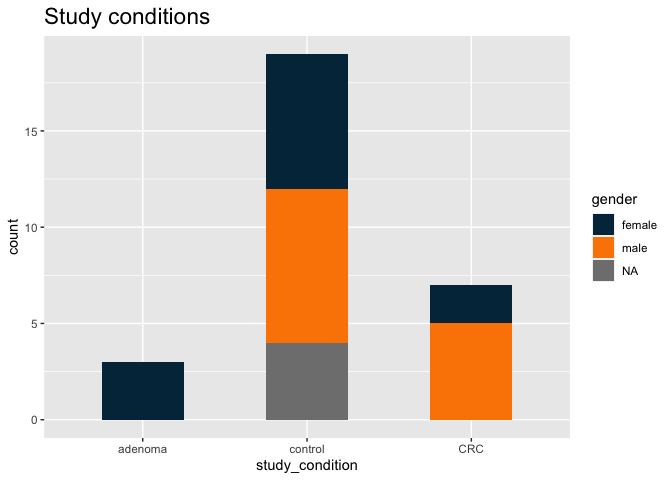
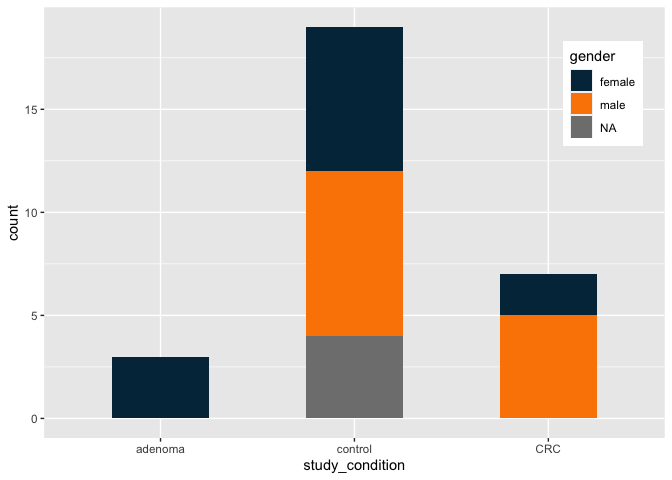
updated

diff --git a/Rscript/CMG_Rscript.md b/Rscript/CMG_Rscript.md
@@ -37,44 +37,48 @@ bin_data <- read.table("CMG_Rscript_data/SGB14797_bin_data.tsv", header=1, sep =
 # STUDY CONDITIONS
 
 conditions <- cbind(metadata[c(5,6)])
-conditions["other_disease"] <- "YES"
-conditions$other_disease[which(is.na(conditions$disease))] <- NA
-conditions$other_disease[which(conditions$disease=="healthy")] <- "NO"
+conditions["other_diseases"] <- 0
+conditions$other_diseases[which(is.na(conditions$disease))] <- NA
+conditions$other_diseases[which(conditions$disease!="healthy")] <- sapply(strsplit(conditions$disease[which(conditions$disease!="healthy")],
+                                                                                  split = ";"), length)
+conditions$other_diseases[which(conditions$study_condition!="control")] <- conditions$other_diseases[which(conditions$study_condition!="control")]-1
+conditions$other_diseases <- as.factor(conditions$other_diseases)
+
 
 # health
-ggplot(data=conditions, aes(x=study_condition, fill=other_disease)) +
+ggplot(data=conditions, aes(x=study_condition, fill=other_diseases)) +
   geom_bar(stat = "count", width=0.5) +
-  ggtitle("Study conditions")+
-  theme(plot.title = element_text(size = 17)) +
-  scale_fill_manual(values = mycolors[c(3,5)])
+  theme(plot.title = element_text(size = 17),
+        legend.position = c(0.9, 0.7)) +
+  scale_fill_manual(values = mycolors[c(1,2,3,5)])
 
 # age
 ggplot(data=metadata, aes(x=study_condition, fill=age_category)) +
   geom_bar(stat = "count", width=0.5) +
-  ggtitle("Study conditions")+
-  theme(plot.title = element_text(size = 17)) +
+  theme(plot.title = element_text(size = 17),
+        legend.position = c(0.9, 0.8)) +
   scale_fill_manual(values = mycolors[c(3,5)])
 
 # gender
 ggplot(data=metadata, aes(x=study_condition, fill=gender)) +
   geom_bar(stat = "count", width=0.5) +
-  ggtitle("Study conditions")+
-  theme(plot.title = element_text(size = 17)) +
+  theme(plot.title = element_text(size = 17),
+        legend.position = c(0.9, 0.8)) +
   scale_fill_manual(values = mycolors[c(3,5)])
 
 # country
 ggplot(data=metadata, aes(x=study_condition, fill=country)) +
   geom_bar(stat = "count", width=0.5) +
-  ggtitle("Study conditions")+
-  theme(plot.title = element_text(size = 17)) +
+  theme(plot.title = element_text(size = 17),
+        legend.position = c(0.95, 0.7)) +
   scale_fill_manual(values = c("#270240", "#023047", "#219ebc", "#8ecae6", 
                                "#ffb703", "#fb8500", "#fa5316", "#fa352a"))
 
 # westernized
 ggplot(data=metadata, aes(x=study_condition, fill=non_westernized)) +
   geom_bar(stat = "count", width=0.5) +
-  ggtitle("Study conditions")+
-  theme(plot.title = element_text(size = 17)) +
+  theme(plot.title = element_text(size = 17),
+        legend.position = c(0.9, 0.8)) +
   scale_fill_manual(values = mycolors[c(3,5)])
 
 # EXPLORATORY ANALYSIS
@@ -83,7 +87,8 @@ ggplot(data=metadata, aes(x=study_condition, fill=non_westernized)) +
 ggplot(data=metadata, aes(x=study_condition, y=median_read_length, col=study_condition)) +
   geom_boxplot() +
   ggtitle("Median Readlength") +
-  theme(plot.title = element_text(size = 17)) +
+  theme(plot.title = element_text(size = 17),
+        legend.position = c(0.9, 0.8)) +
   scale_color_manual(values = mycolors[c(2,3,5)]) +
   theme(legend.position = "none")
 
@@ -91,7 +96,8 @@ ggplot(data=metadata, aes(x=study_condition, y=median_read_length, col=study_con
 ggplot(data=metadata, aes(x=study_condition, y=number_bases, col=study_condition)) +
   geom_boxplot() +
   ggtitle("Number of Bases") +
-  theme(plot.title = element_text(size = 17)) +
+  theme(plot.title = element_text(size = 17),
+        legend.position = c(0.9, 0.8)) +
   scale_color_manual(values = mycolors[c(2,3,5)]) +
   theme(legend.position = "none")
 
@@ -99,7 +105,8 @@ ggplot(data=metadata, aes(x=study_condition, y=number_bases, col=study_condition
 ggplot(data=metadata, aes(x=study_condition, y=number_reads, col=study_condition)) +
   geom_boxplot() +
   ggtitle("Number of Reads") +
-  theme(plot.title = element_text(size = 17)) +
+  theme(plot.title = element_text(size = 17),
+        legend.position = c(0.9, 0.8)) +
   scale_color_manual(values = mycolors[c(2,3,5)]) +
   theme(legend.position = "none")
 ```
@@ -119,12 +126,11 @@ ggplot(data=cr, aes(x=SGB14797, y=percentage, fill=SGB14797)) +
   geom_violin() +
   theme(plot.title = element_text(size = 17),
         legend.position = "none") +
-  ggtitle("MAGs completeness and contamination") +
   scale_fill_manual(values = mycolors[c(1,4)]) +
   geom_boxplot(width=0.1, fill="white")
 ```
 
-![](CMG_Rscript_files/figure-gfm/unnamed-chunk-2-1.png)<!-- -->
+![](CMG_Rscript_files/figure-gfm/completeness_redundancy-1.png)<!-- -->
 
 # Taxonomic assignment
 
@@ -231,7 +237,7 @@ dim(prokka_nonCDS)
 ggplot(data=prokka_CDS, aes(x=MAG, fill=protein_type)) +
   geom_bar(stat="count", width=0.8) +
   scale_fill_manual(values = mycolors[c(2,5)]) +
-  ggtitle("Number of CDS") +
+  ggtitle("Coding sequences") +
   theme(axis.text.x = element_text(angle=45, hjust=1, vjust=1, size=6, color="black"),
         plot.title = element_text(size = 17))
 # non-coding Sequences
